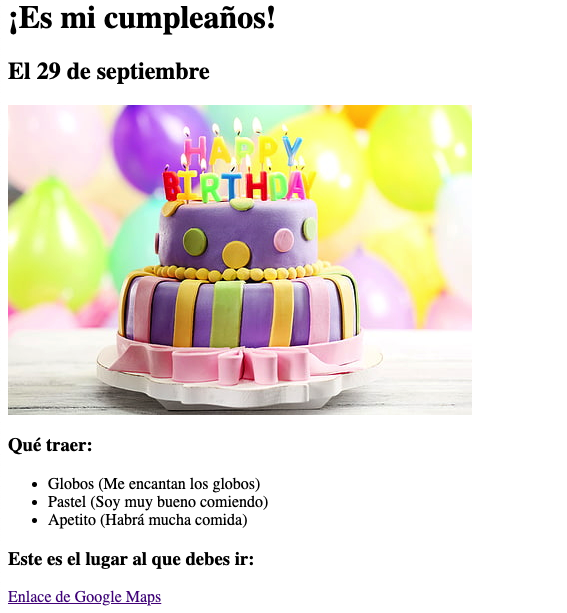
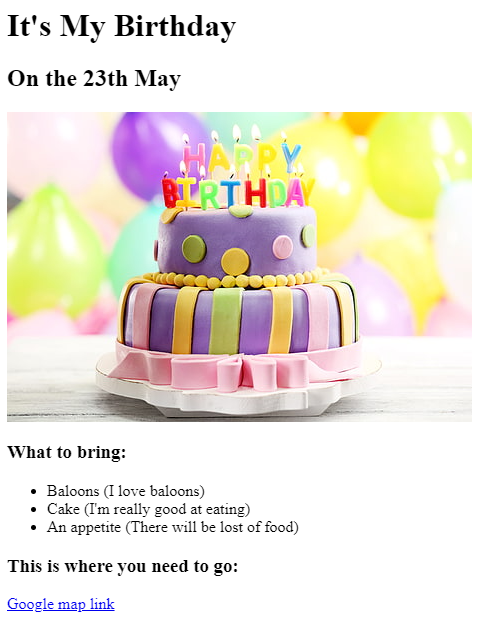
Ejercicio 5 resuelto

diff --git a/5 Ejercicio HTML Boiler Plate Portafolio/public/about.html b/5 Ejercicio HTML Boiler Plate Portafolio/public/about.html
@@ -1,31 +1,15 @@
-<h1>Sobre Mi</h1>
-<p>
-  Lorem ipsum dolor sit amet, consectetur adipiscing elit. Pellentesque sem
-  tellus, sagittis non odio nec, interdum elementum lacus. Ut ac justo eget
-  risus sollicitudin fringilla sed ut leo. Ut condimentum elit nec fermentum
-  lobortis. Quisque tincidunt quam nec tincidunt ullamcorper. Integer vitae
-  pretium justo. In placerat volutpat pellentesque. Etiam gravida quam vitae
-  odio pulvinar imperdiet. Vivamus venenatis gravida purus sit amet aliquet. Ut
-  in nibh sed quam laoreet lacinia. Cras cursus ut dui vitae posuere. Vivamus
-  volutpat urna vitae odio fringilla placerat. Nulla vel rhoncus sapien.
-  Phasellus at interdum enim.
-</p>
-
-<p>
-  Curabitur elementum sagittis mollis. In porta nec quam ut semper. Nulla
-  volutpat neque quis lacus mattis eleifend. Phasellus et congue odio. Mauris
-  tristique, nisl quis porttitor porttitor, tortor ante mattis ex, at dictum
-  tortor dolor ut sem. Nullam nec libero non ex porta vulputate a eu sapien. In
-  nec bibendum mauris. Fusce iaculis lectus vel magna laoreet gravida.
-</p>
-
-<p>
-  Donec euismod vestibulum arcu, a blandit metus mattis ultrices. Integer quis
-  hendrerit justo. Maecenas sed tempor mi. Fusce egestas urna leo. Mauris
-  viverra sem sed libero egestas, volutpat aliquet magna porta. Quisque id diam
-  sed ipsum interdum sollicitudin id quis augue. Donec congue nisl nec massa
-  ornare imperdiet quis quis odio. Etiam ut volutpat nisl. Vestibulum hendrerit
-  justo nibh, eget consequat magna fermentum finibus. Pellentesque et urna
-  fringilla, rutrum neque in, varius leo. Vestibulum efficitur id massa eget
-  pellentesque.
-</p>
+<!DOCTYPE html>
+<html lang="en">
+<head>
+  <meta charset="UTF-8">
+  <meta name="viewport" content="width=device-width, initial-scale=1.0">
+  <title>Sobre mí</title>
+</head>
+<body>
+  <h1>Sobre Mi</h1> 
+  <p>
+    Hola Soy Michael actualmente estoy estudiando Desarrollo de Software estoy en el tercer Semestre. Este portafolio esta dirijido especificamente para mi 
+    clase de Desarrollo Web como parte del ejecicio 5.
+  </p>
+</body>
+</html>

diff --git a/5 Ejercicio HTML Boiler Plate Portafolio/public/birthday-invite.html b/5 Ejercicio HTML Boiler Plate Portafolio/public/birthday-invite.html
@@ -1,21 +1,16 @@
-<!-- Esta es una posible solución -->
-<h1>¡Es mi cumpleaños!</h1>
-<h2>El 29 de septiembre</h2>
-
-<img
-  src="https://raw.githubusercontent.com/appbrewery/webdev/main/birthday-cake3.4.jpeg"
-  alt="pastel de cumpleaños morado con velas"
-/>
-
-<h3>Qué traer:</h3>
-<ul>
-  <li>Globos (Me encantan los globos)</li>
-  <li>Pastel (Soy muy bueno comiendo)</li>
-  <li>Apetito (Habrá mucha comida)</li>
-</ul>
-
-<h3>Este es el lugar al que debes ir:</h3>
-<a
-  href="https://www.google.com/maps/@35.7040744,139.5577317,3a,75y,289.6h,87.01t,0.72r/data=!3m6!1e1!3m4!1sgT28ssf0BB2LxZ63JNcL1w!2e0!7i13312!8i6656"
-  >Enlace de Google Maps</a
->
+<html>
+    <head><title>It's My Birthday</title></head>
+    <body>
+        <h1>It's My Birthday</h1>
+        <h2>On the 23th May</h2>
+        <img src="https://raw.githubusercontent.com/appbrewery/webdev/main/birthday-cake3.4.jpeg" alt="cake.jpeg">
+        <h3>What to bring:</h3>
+        <ul>
+            <li>Baloons (I love baloons)</li>
+            <li>Cake (I'm really good at eating)</li>
+            <li>An appetite (There will be lost of food)</li>
+        </ul>
+        <h3>This is where you need to go:</h3>
+        <a href="https://www.google.com/maps/@35.7040744,139.5577317,3a,75y,289.6h,87.01t,0.72r/data=!3m6!1e1!3m4!1sgT28ssf0BB2LxZ63JNcL1w!2e0!7i13312!8i6656">Google map link</a>
+    </body>
+</html>

diff --git a/5 Ejercicio HTML Boiler Plate Portafolio/public/movie-ranking.html b/5 Ejercicio HTML Boiler Plate Portafolio/public/movie-ranking.html
@@ -1,9 +1,11 @@
-<h1>Las Mejores Películas Según Andres</h1>
-<h2>Mis 3 películas favoritas de todos los tiempos.</h2>
-<hr />
-<h3>El Silencio de los Inocentes</h3>
-<p>Un thriller psicológico que te mantiene al borde del asiento.</p>
-<h3>Seven</h3>
-<p>Un oscuro y fascinante thriller sobre la búsqueda de un asesino en serie.</p>
-<h3>El Club de la Pelea</h3>
-<p>Un thriller psicológico con giros inesperados y una narrativa única.</p>
+<html>
+    <h1>Mis peliculas Favoritas de Michael Alejandro</h1>
+    <h2>My top 3 de peliculas de ciencia ficción</h2>
+    <h3>Interestelar</h3>
+    <p>Es una de las mas interesantes no solo por su trama sino por todo lo que tiene relacionado con la fisica y lo demas relacionado con el espacio.</p>
+    <h3>65: Al borde de la extinción</h3>
+    <p>Es otra pelicula que me encanta relacionada con el espacio y como se relaciona con un mundo lleno de dinosaurios, ademas de la interaccion entre los personajes que atraviesan la barrera del idioma.</p>
+    <h3>Avatar</h3>
+    <p>Esta pelicula me gusto ya que fue una de las primeras que vi que tocaban el tema de otro planeta, ademas de que me encanto el plus de que el cambio de cuerpos.</p>
+    <p>Todas estas peliculas me encantaron pero creo que en su mayoria me gustan porque estan relacionadas con el espacio</p>
+    </html>

diff --git a/5 Ejercicio HTML Boiler Plate Portafolio/index.html b/5 Ejercicio HTML Boiler Plate Portafolio/index.html
@@ -1,3 +1,20 @@
+<!DOCTYPE html>
+<html lang="en">
+<head>
+    <meta charset="UTF-8">
+    <meta name="viewport" content="width=device-width, initial-scale=1.0">
+    <title>Portafolio</title>
+</head>
+<body>
+    <h1>Portafolio de Michael Alejandro</h1>
+    <h2>Soy un Desarrollador Web</h2>
+    <h2><a href="./public/movie-ranking.html">Proyecto de Clasificación de Películas</a></h2>
+    <img src="./assets/images/movie-ranking.png" alt="" height="400px">
+    <h2><a href="./public/birthday-invite.html">Proyecto de Invitación de Cumpleaños</a></h2>
+    <img src="./assets/images/birthday-invite.png" alt="" height="600px">
+    <h2><a href="./public/about.html">Sobre Mí</a> <a href="./public/contact.html">Contáctame</a></h2>
+</body>
+</html>
 <!-- TODO 1: Crear la estructura básica de HTML -->
 
 <!-- TODO 2: Añadir el HTML de tus proyectos anteriores en la carpeta public -->

diff --git a/5 Ejercicio HTML Boiler Plate Portafolio/public/contact.html b/5 Ejercicio HTML Boiler Plate Portafolio/public/contact.html
@@ -1,9 +1,19 @@
-<h1>Contacto</h1>
-<p>Tel: +123456789</p>
-<p>Email: me@gmail.com</p>
-<p>Address:</p>
-<p>
-  12 de octubre<br />
-  Quito<br />
-  Ecuador <br />
-</p>
+<!DOCTYPE html>
+<html lang="en">
+<head>
+  <meta charset="UTF-8">
+  <meta name="viewport" content="width=device-width, initial-scale=1.0">
+  <title>Contacto</title>
+</head>
+<body>
+  <h1>Contacto</h1>
+  <p>Tel: 0961021815</p>
+  <p>Email: maalejandro@puce.edu.ec</p>
+  <p>Address: Quito</p>
+  <p>
+    26 de octubre<br />
+    Quito<br />
+    Ecuador <br />
+  </p>  
+</body>
+</html>
